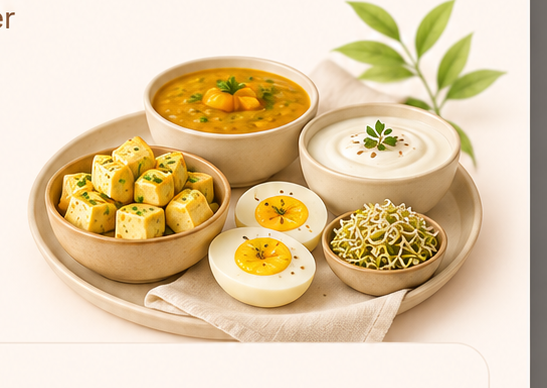
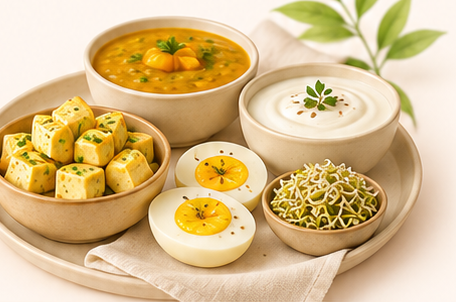
weight-loss popups: re-crop hero food images clean (remove UI chrome), contain float

diff --git a/src/routes/create.tsx b/src/routes/create.tsx
@@ -128,8 +128,8 @@ function WLWhyScreen({ progress, onBack, onNext }: { progress: number; onBack: (
 
               {open.benefits ? (
                 <>
-                  {/* paragraph with the food photo floated beside it (full image, text wraps) */}
-                  <div className="mt-4">
+                  {/* paragraph with the food photo floated beside it (full image, text wraps; overflow-hidden contains the float) */}
+                  <div className="mt-4 overflow-hidden">
                     {open.heroImg && (
                       <img src={`/images/weightloss/${open.heroImg}`} alt="" className="float-right ml-3 mb-1.5 w-[44%] rounded-[16px]" onError={(e) => { e.currentTarget.style.display = "none"; }} />
                     )}
